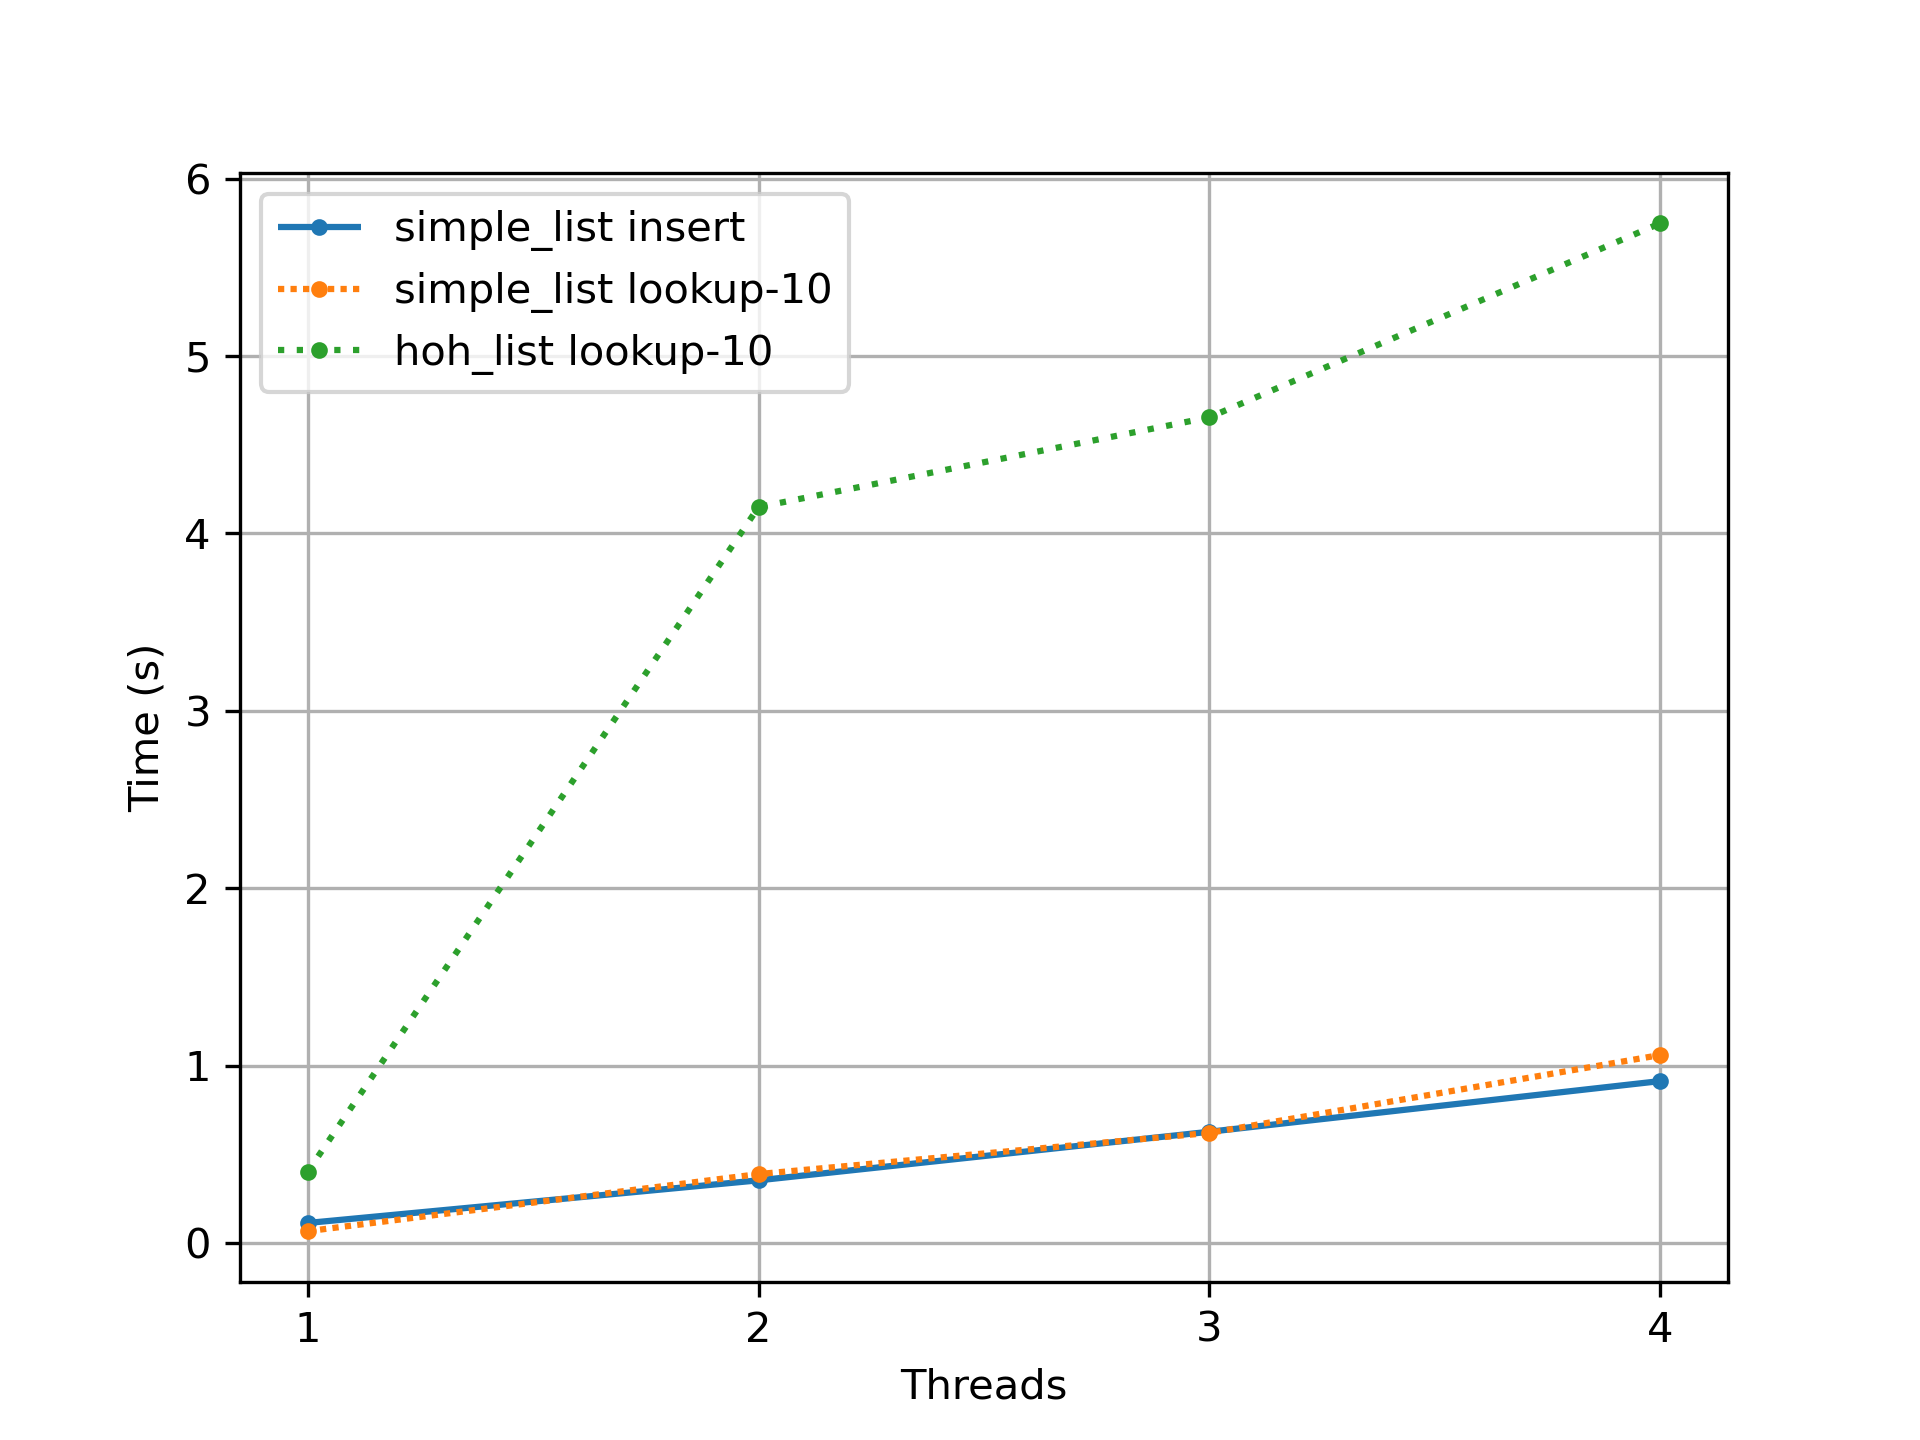
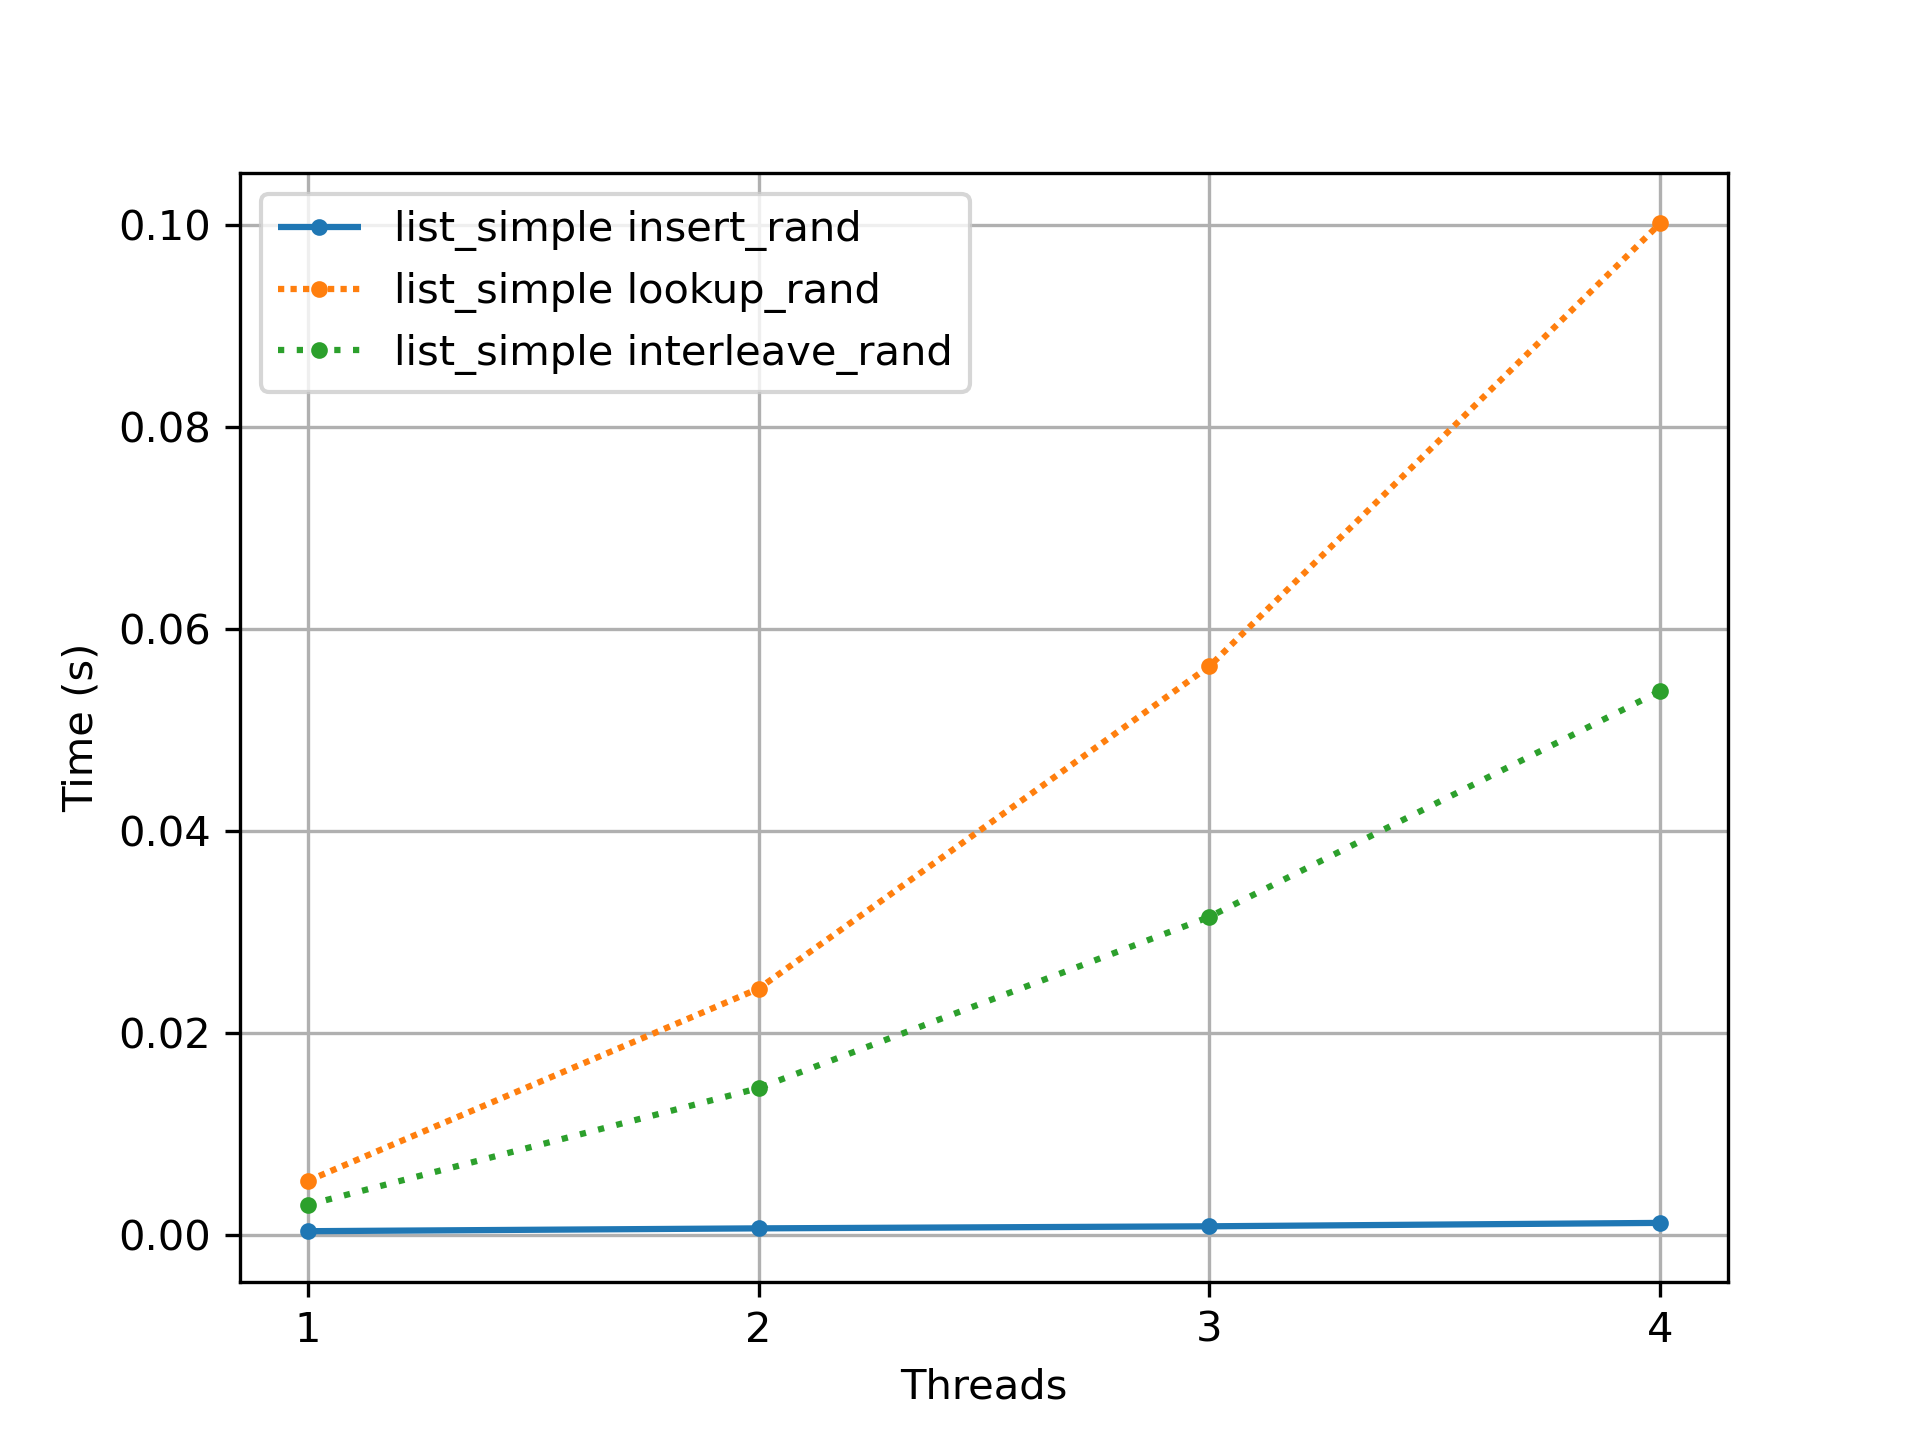
hw29: delete list_hoh + list_simple worker_interleave

diff --git a/hw29-threads-locks-usage/src/list_simple.cpp b/hw29-threads-locks-usage/src/list_simple.cpp
@@ -1,5 +1,6 @@
 #include <iostream>
 #include <mutex>
+#include <random>
 #include "shared.hpp"
 
 struct Node {
@@ -13,12 +14,14 @@ public:
     SimpleList(): head_(NULL), mutex_(), size_(0) {}
 
     ~SimpleList() {
+        mutex_.lock();
         Node *current = head_;
         while (current) {
             Node *tmp = current->next;
             delete current;
             current = tmp;
         }
+        mutex_.unlock();
     }
 
     void insert(int data) {
@@ -56,14 +59,30 @@ private:
 };
 
 void worker_insert(int threadID, SimpleList &list, int nloops) {
+    std::random_device rdev;
+    std::mt19937 gen(rdev());
+    std::uniform_int_distribution<> distribution;
     for (int i = 0; i < nloops; ++i) {
-        list.insert(i);
+        list.insert(distribution(gen));
     }
 }
 
 void worker_lookup(int threadID, SimpleList &list, int nloops) {
+    std::random_device rdev;
+    std::mt19937 gen(rdev());
+    std::uniform_int_distribution<> distribution;
     for (int i = 0; i < nloops; ++i) {
-        list.lookup(nloops - 11);
+        list.lookup(distribution(gen));
+    }
+}
+
+void worker_interleave(int threadID, SimpleList &list, int nloops) {
+    std::random_device rdev;
+    std::mt19937 gen(rdev());
+    std::uniform_int_distribution<> distribution;
+    for (int i = 0; i < nloops; ++i) {
+        list.insert(distribution(gen));
+        list.lookup(distribution(gen));
     }
 }
 
@@ -75,14 +94,22 @@ int main(int argc, char *argv[]) {
     auto nthreads = std::stoi(argv[1]);
     auto nloops = std::stoi(argv[2]);
 
-    SimpleList list;
-    auto elapsed = time_workers(nthreads, worker_insert, std::ref(list), nloops);
-    std::cout << "program=" << argv[0] << " op=insert"
-              << " nthreads=" << nthreads << " nloops=" << nloops
-              << " size=" << list.size() << " time=" << elapsed  << std::endl;
-    elapsed = time_workers(nthreads, worker_lookup, std::ref(list), nloops);
-    std::cout << "program=" << argv[0] << " op=lookup-10"
-              << " nthreads=" << nthreads << " nloops=" << nloops
-              << " size=" << list.size() << " time=" << elapsed  << std::endl;
+    {
+        SimpleList list;
+        auto elapsed = time_workers(nthreads, worker_insert, std::ref(list), nloops);
+        std::cout << "program=" << argv[0] << " op=insert_rand"
+                  << " nthreads=" << nthreads << " nloops=" << nloops
+                  << " size=" << list.size() << " time=" << elapsed  << std::endl;
+        elapsed = time_workers(nthreads, worker_lookup, std::ref(list), nloops);
+        std::cout << "program=" << argv[0] << " op=lookup_rand"
+                  << " nthreads=" << nthreads << " nloops=" << nloops
+                  << " size=" << list.size() << " time=" << elapsed  << std::endl;
+    } {
+        SimpleList list;
+        auto elapsed = time_workers(nthreads, worker_interleave, std::ref(list), nloops);
+        std::cout << "program=" << argv[0] << " op=interleave_rand"
+                  << " nthreads=" << nthreads << " nloops=" << nloops
+                  << " size=" << list.size() << " time=" << elapsed  << std::endl;
+    }
     return 0;
 }

diff --git a/hw29-threads-locks-usage/answers.md b/hw29-threads-locks-usage/answers.md
@@ -18,8 +18,8 @@ Q3. Next, build a version of the sloppy counter. Once again, measure its perform
 
 Q4. Build a version of a linked list that uses hand-over-hand locking [MS04], as cited in the chapter. You should read the paper first to understand how it works, and then implement it. Measure its performance. When does a hand-over-hand list work better than a standard list as shown in the chapter?
 
-* See `list_simple.cpp` and `list_hoh.cpp`.
-* The following plot show the execution time of the lookup operation on the 10th element in a `list_simple` (coarse-grained lock) and a `list_hoh` (hand-over-hand lock) with `nthreads=4` and `nloops=1000000` averaged over 100 experiments.
+* See `list_simple.cpp` ~~and `list_hoh.cpp`~~ (deleted, incorrect implementation).
+* The following plot show the execution time of lookup, insert and interleaved operations on random elements of `list_simple` (coarse-grained lock) with `nthreads=4` and `nloops=1000` averaged over 100 experiments.
 * > Conceptually, a hand-over-hand linked list makes some sense; it enables a high degree of concurrency in list operations. However, in practice, it is hard to make such a structure faster than the simple single lock approach, as the overheads of acquiring and releasing locks for each node of a list traversal is prohibitive. Even with very large lists, and a large number of threads, the concurrency enabled by allowing multiple ongoing traversals is unlikely to be faster than simply grabbing a single lock, performing an operation, and releasing it. ― OSTEP 29.2 Concurrent Linked Lists
 
 ![Performance of lookup in simple vs hoh list](plot_lists.png)
